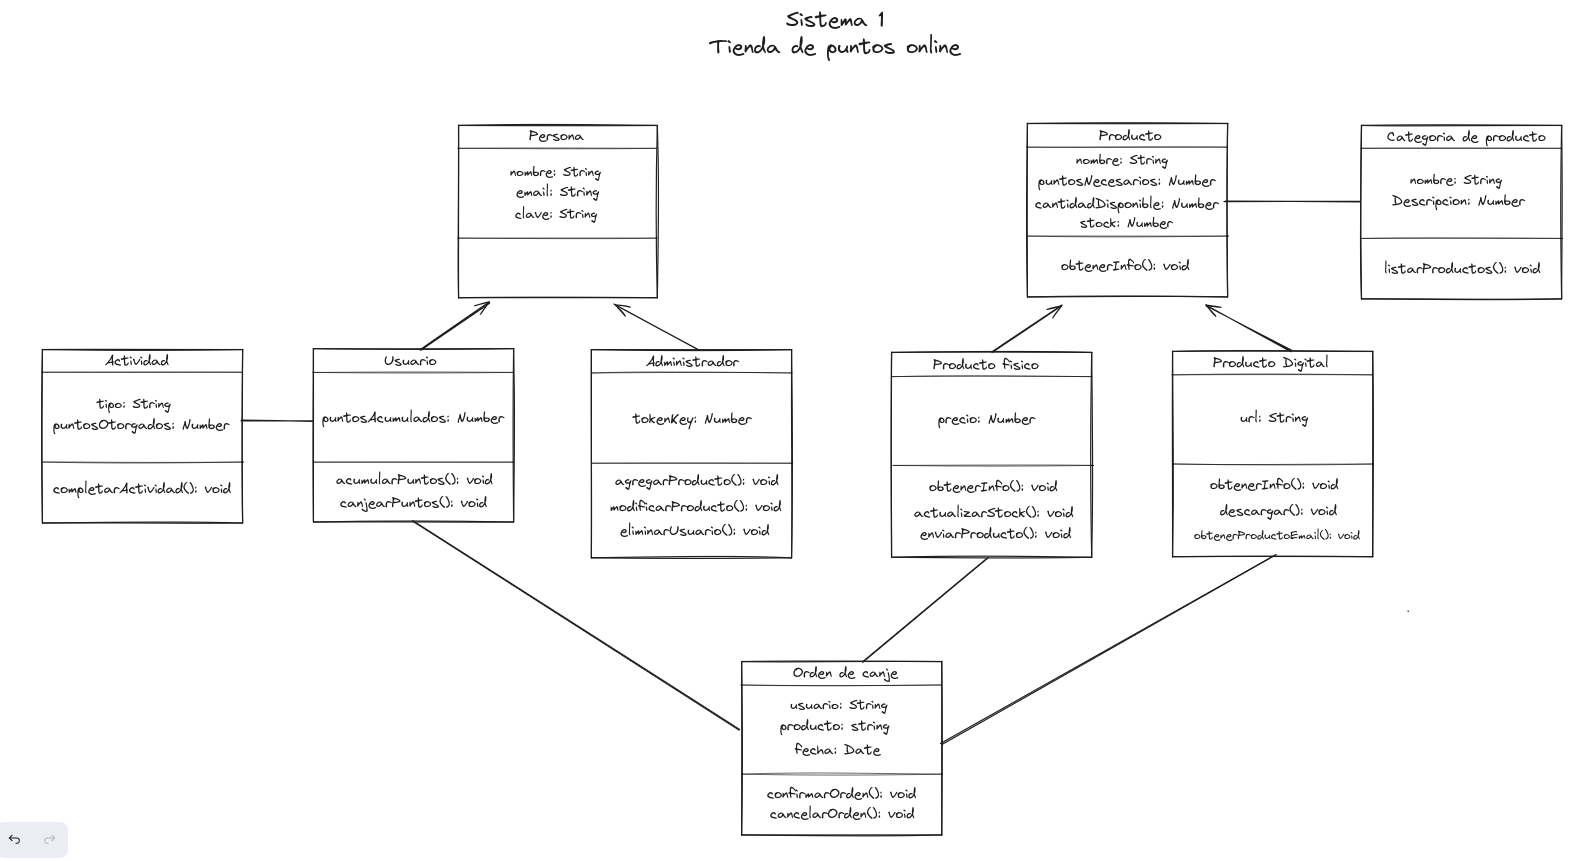
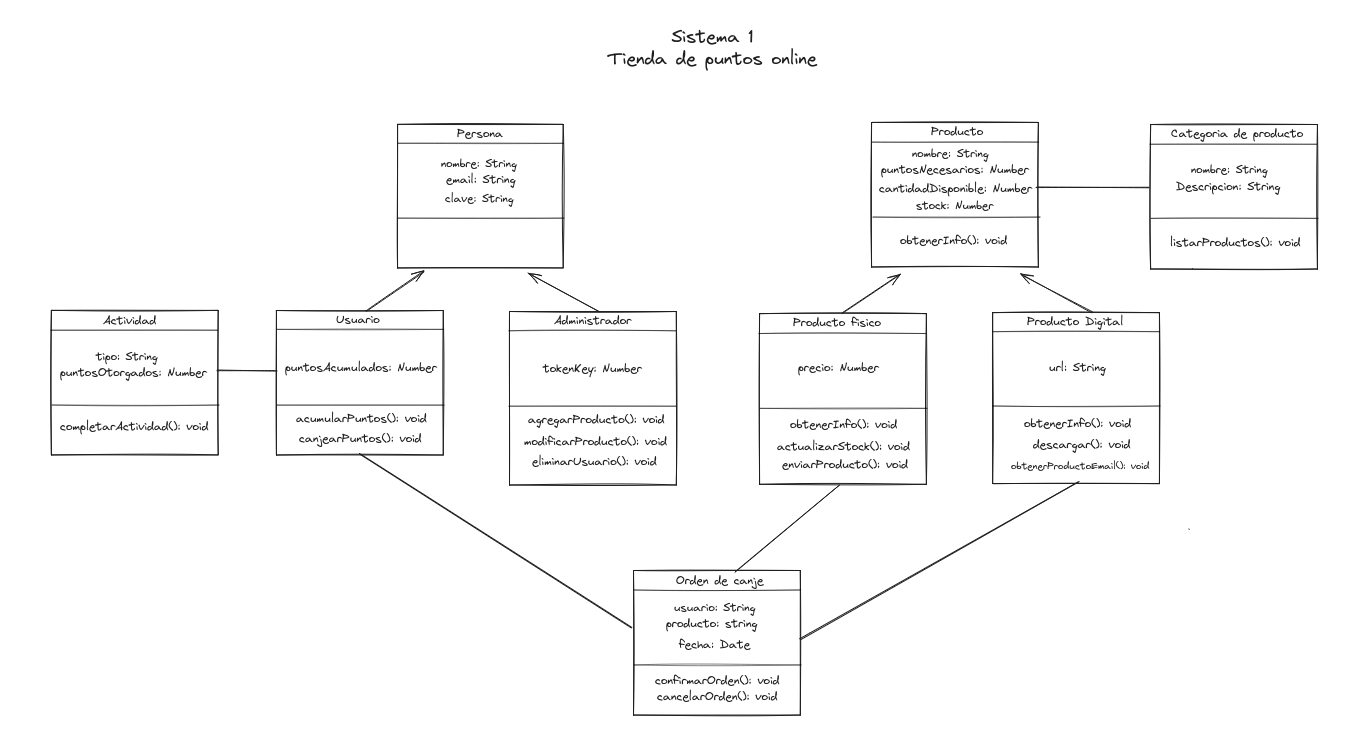
WIP: Prototypes of system 1 done

diff --git a/part-2/system1_onlinePointsStore.js b/part-2/system1_onlinePointsStore.js
@@ -57,7 +57,66 @@ const adminUno = new Administrador("Mahicol", "@123", "pss123", 1234567);
 adminUno.agregarProducto();
 
 //Entidad base/principal Producto -----------------------------------------------------
+
+function Producto(nombre, puntosNecesarios, cantidadDisponible, stock){
+  this.nombre = nombre;
+  this.puntosNecesarios = puntosNecesarios;
+  this.cantidadDisponible = cantidadDisponible;
+  this.stock = stock;
+}
+
+Producto.prototype.obtenerInfo = function(){
+  return `Nombre: ${this.nombre}, puntos necesarios: ${this.puntosNecesarios}, cantidad disponible: ${this.cantidadDisponible}, stock: ${this.stock}`;
+}
+
 //Extension/Herencias de Producto
+
+//Producto fisico
+
+function ProductoFisico(nombre, puntosNecesarios, cantidadDisponible, stock, precio){
+  Producto.call(this, nombre, puntosNecesarios, cantidadDisponible, stock)
+  this.precio = precio;
+
+  this.obtenerInfo = function(){
+    return console.log(`${Producto.prototype.obtenerInfo.call(this)}, Como soy producto fisico tambien tengo un precio: $${this.precio}`)
+  }
+
+  this.actualizarStock = () => {
+    return console.log("Actualizando stock");
+  }
+
+  this.enviarProducto = function(){
+    return console.log("Enviando producto");
+  }
+}
+
+ProductoFisico.prototype = new Producto()
+
+//Ejemplo/Prueba
+
+const productoUno = new ProductoFisico("Camiseta", 100, 10, 100, 20000);
+
+productoUno.obtenerInfo();
+
+//Producto virtual
+
+function ProductoVirtual(nombre, puntosNecesarios, cantidadDisponible, stock, url){
+  Producto.call(this, nombre, puntosNecesarios, cantidadDisponible, stock)
+  this.url = url;
+}
+
+ProductoVirtual.prototype.obtenerInfo = function(){
+  return console.log(`${Producto.prototype.obtenerInfo.call(this)} y Como soy producto virtual tambien tengo una url: $${this.url}`)
+}
+
+ProductoVirtual.prototype.descargar = () => {
+  return console.log("Descargando producto");
+} 
+
+ProductoVirtual.prototype.obtenerProductoEmail = function (){
+  return console.log("Enviando Producto por email");
+}
+
 
 //Entidad Categoria de producto -------------------------------------------------------------
 
@@ -78,5 +137,21 @@ function Actividad(tipo, puntosOtorgados) {
 }
 
 Actividad.prototype.completarActividad = function () {
-  return console.log("Complete actividad");
+  return console.log("Completando actividad");
 };
+
+//Entidad orden de canje  -------------------------------------------------------------
+
+function OrdenCanje(usuario,producto,fecha){
+  this.usuario = usuario;
+  this.producto = producto;
+  this.fecha = fecha;
+
+  this.confirmarOrden = function(){
+    return console.log("Confirmando orden");
+  }
+
+  this.cancelarOrden = () => {
+    return console.log("Cancelando orden");
+  }
+}
